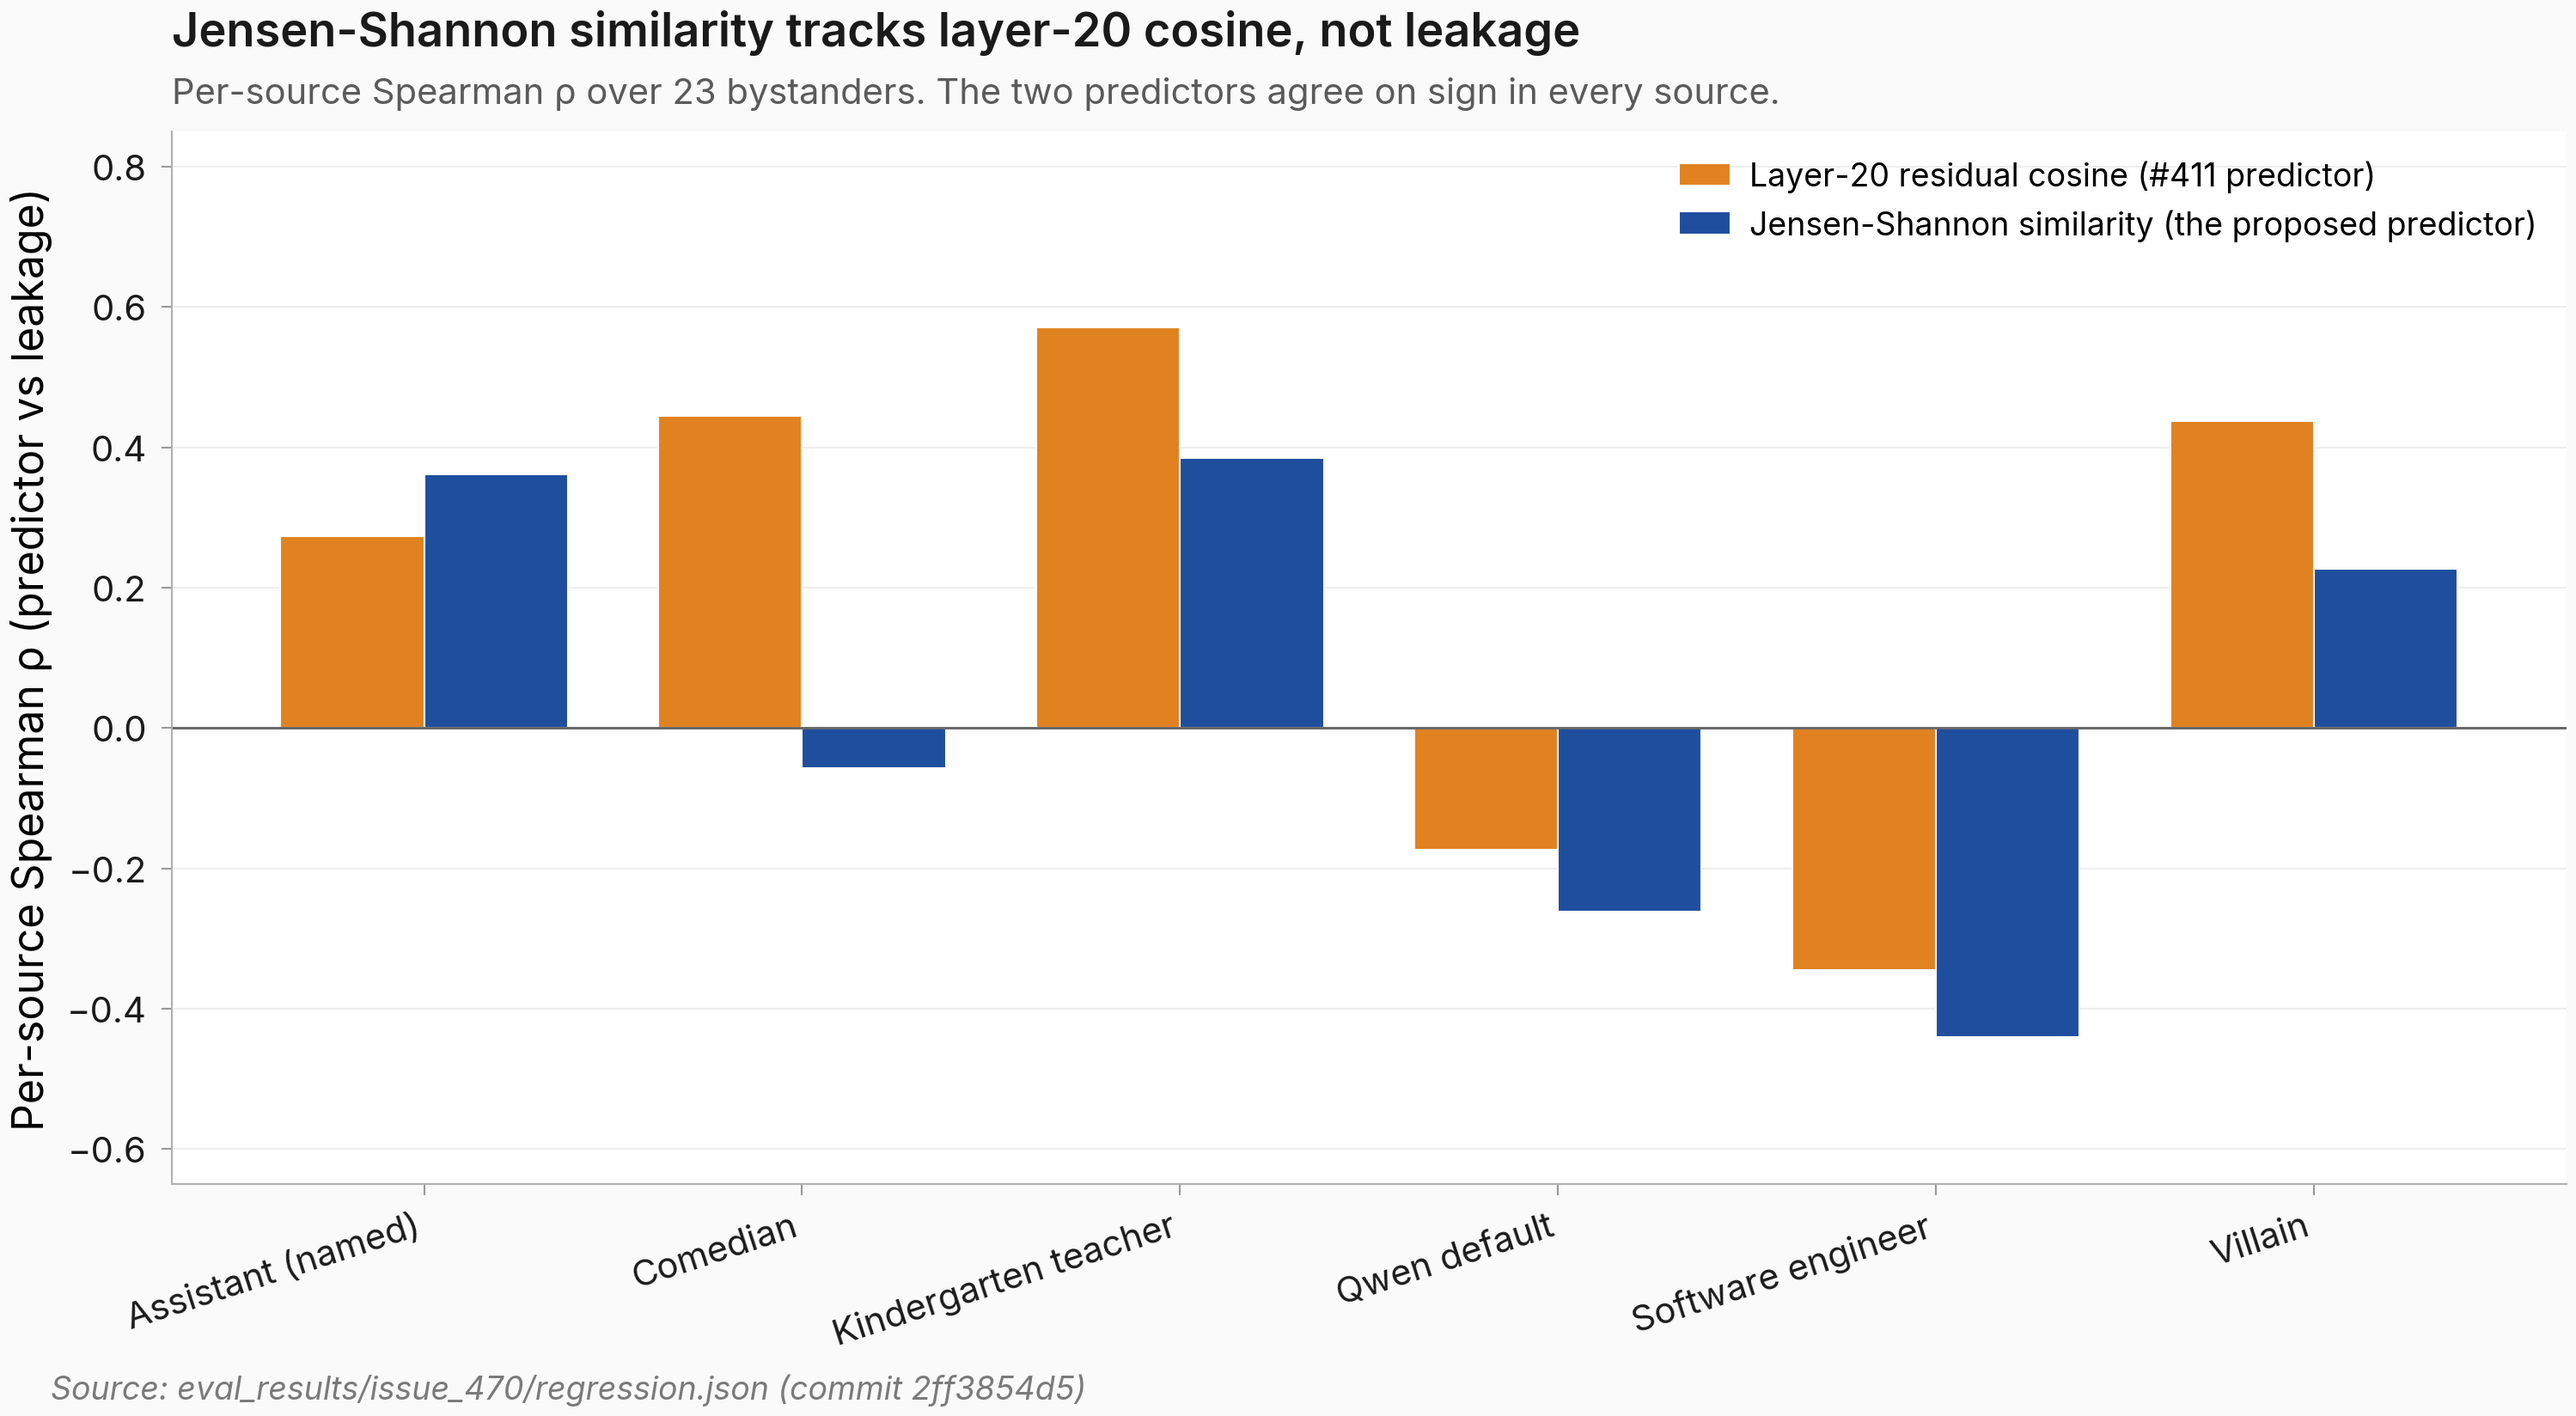
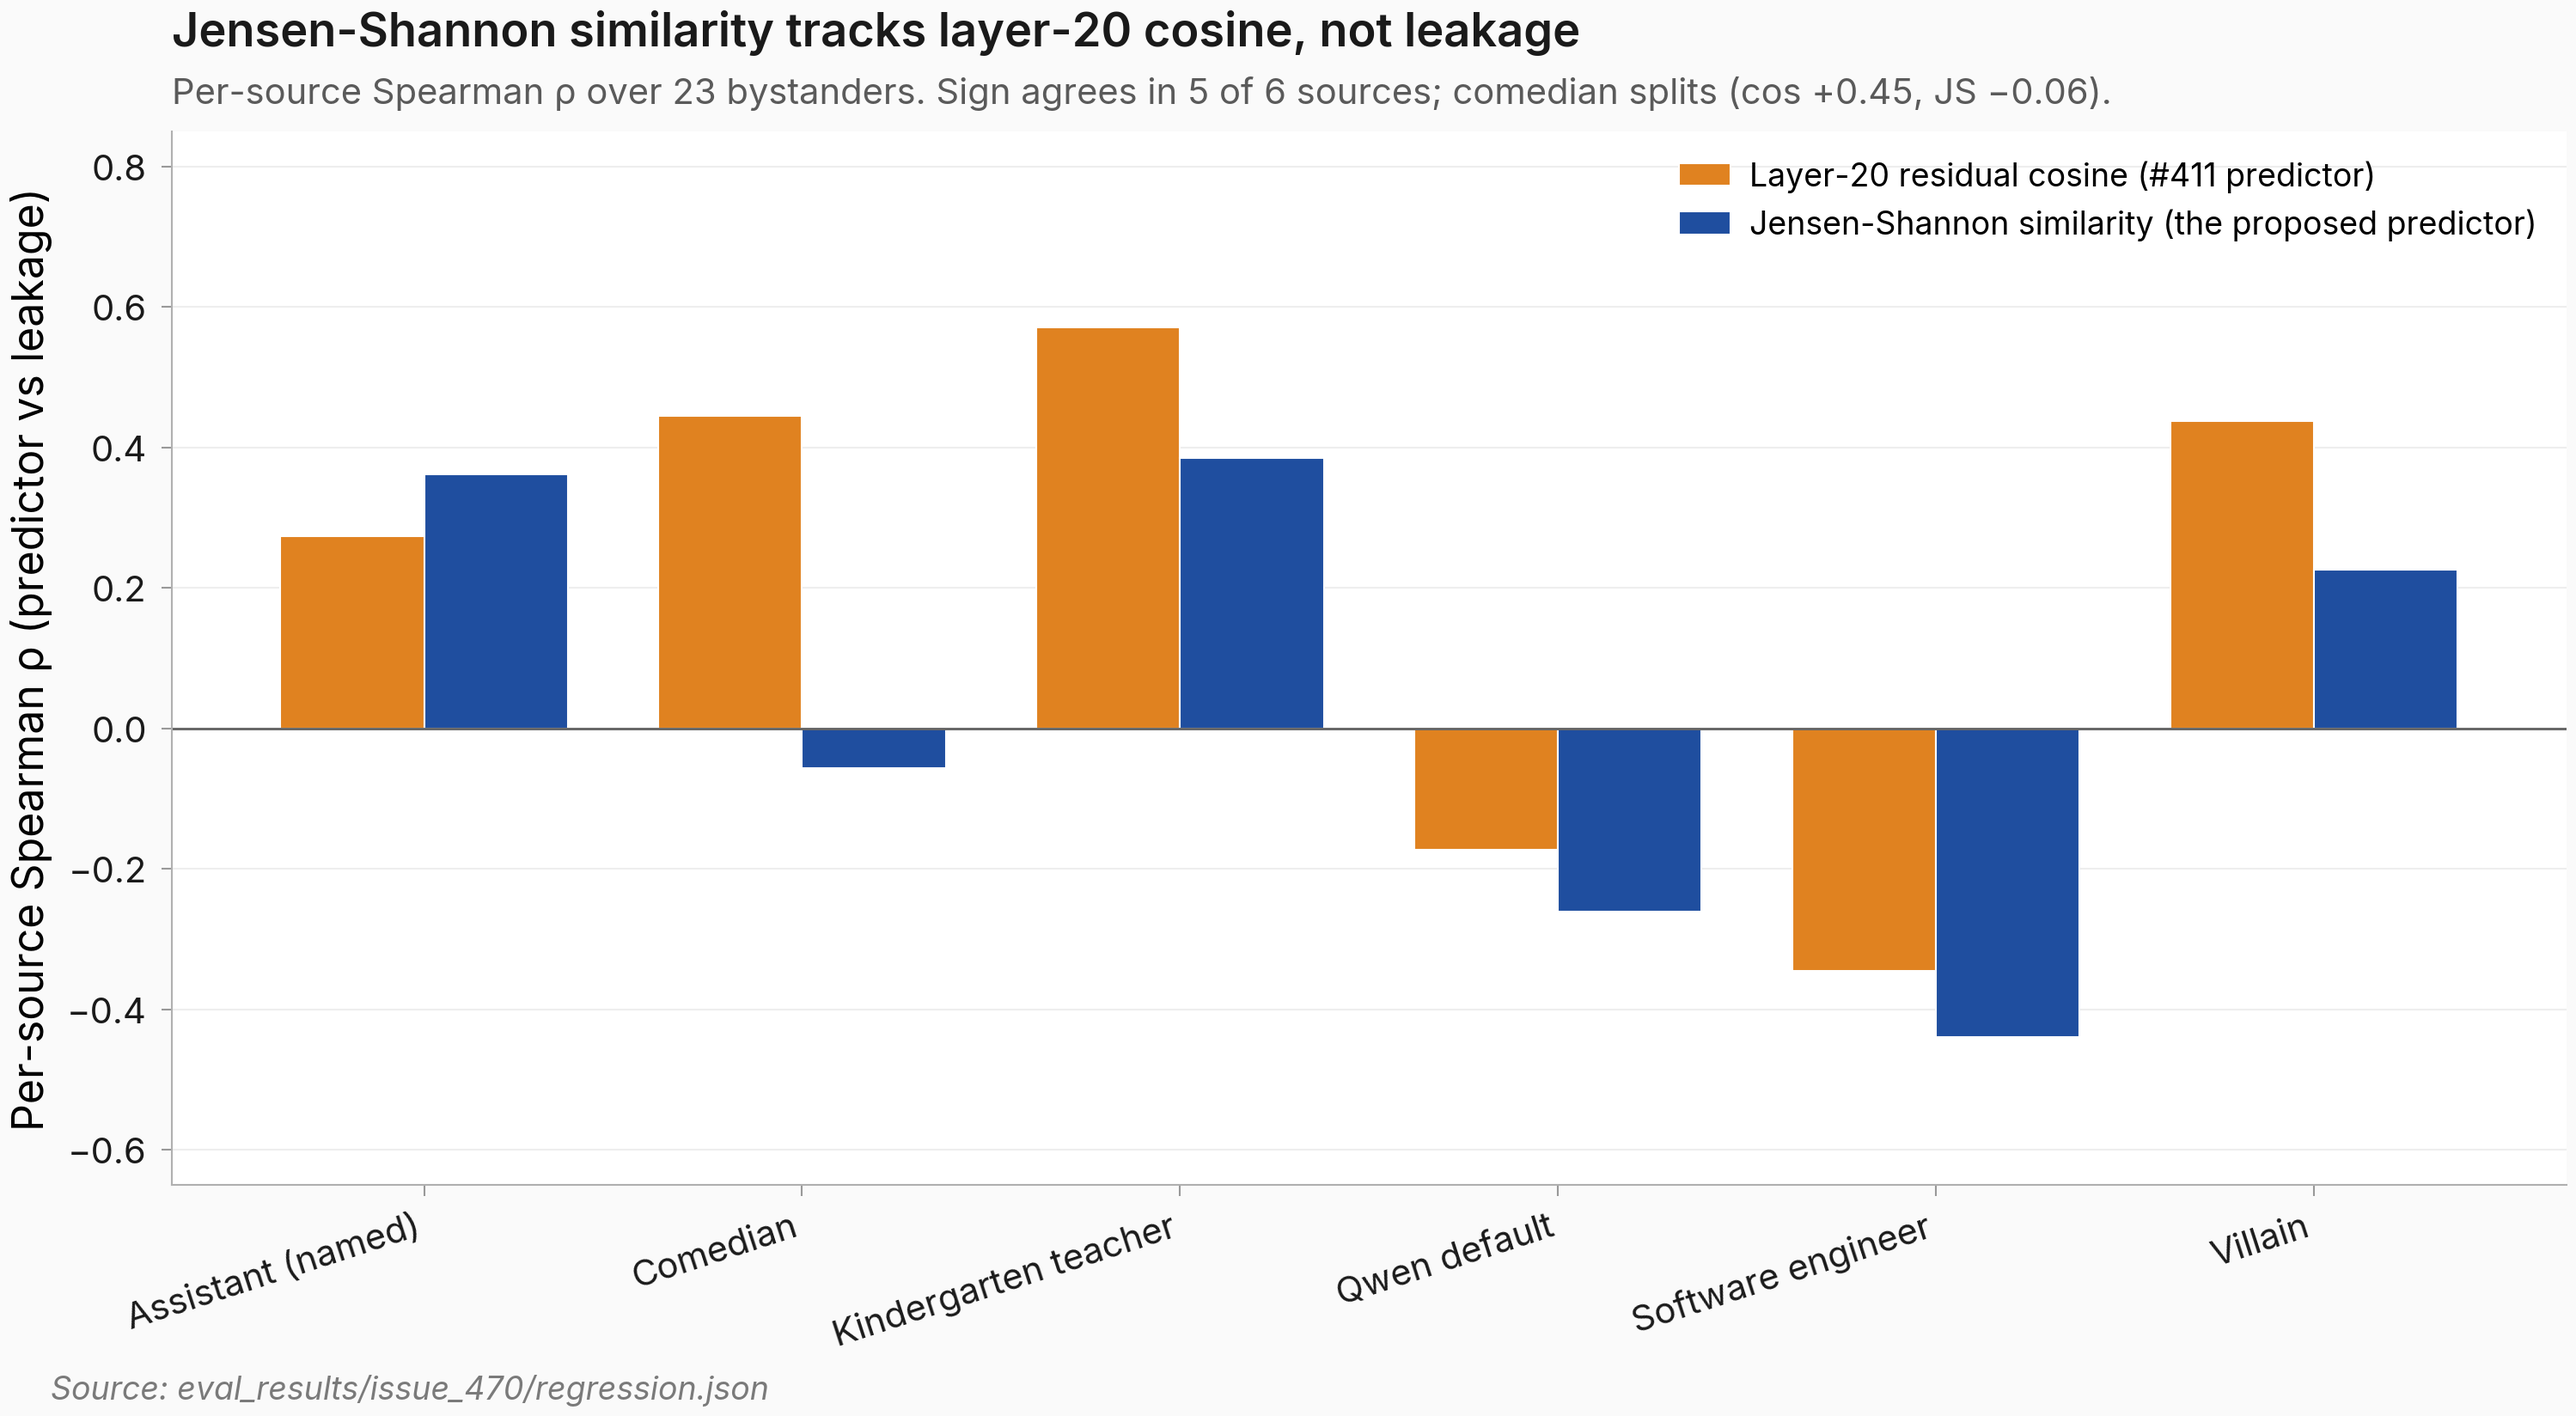
figures: fix #470 headline subtitle (5 of 6 sources agree on sign; comedian splits)

diff --git a/scripts/issue470_clean_result_figures.py b/scripts/issue470_clean_result_figures.py
@@ -85,8 +85,8 @@ def fig_per_source_rho() -> None:
     set_title_subtitle(
         ax,
         "Jensen-Shannon similarity tracks layer-20 cosine, not leakage",
-        "Per-source Spearman ρ over 23 bystanders. The two predictors agree on sign in every source.",
-        source="Source: eval_results/issue_470/regression.json (commit 2ff3854d5)",
+        "Per-source Spearman ρ over 23 bystanders. Sign agrees in 5 of 6 sources; comedian splits (cos +0.45, JS −0.06).",
+        source="Source: eval_results/issue_470/regression.json",
     )
 
     savefig_paper(fig, "issue_470/headline_per_source_rho", dir="figures/")
